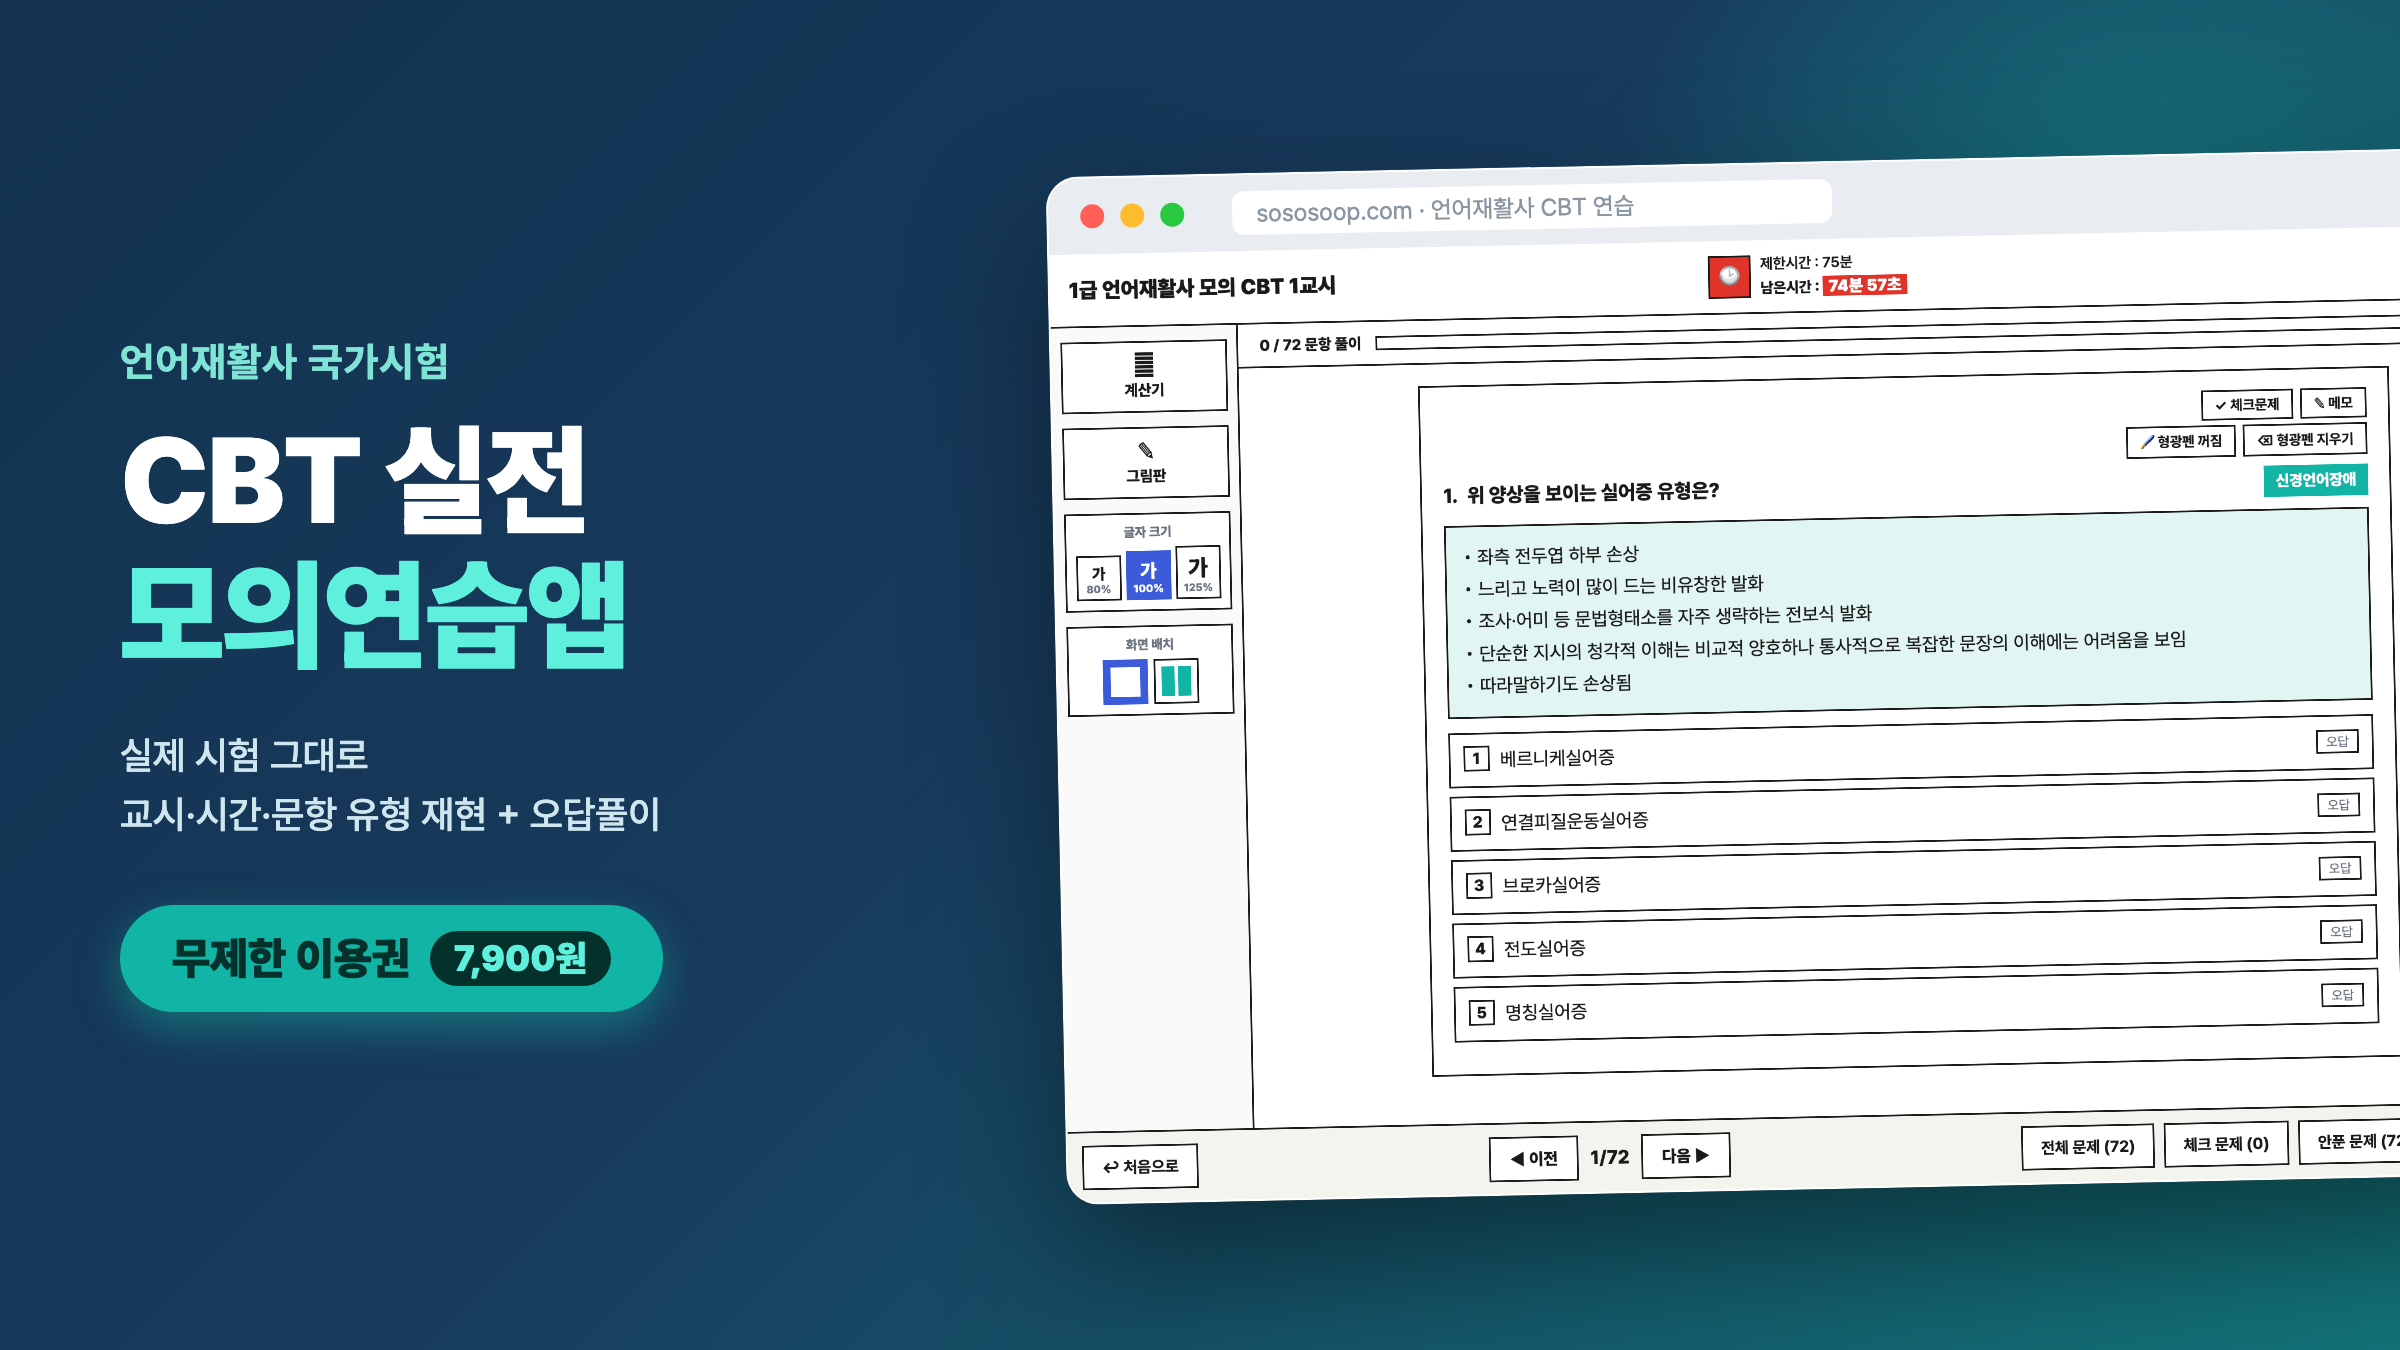
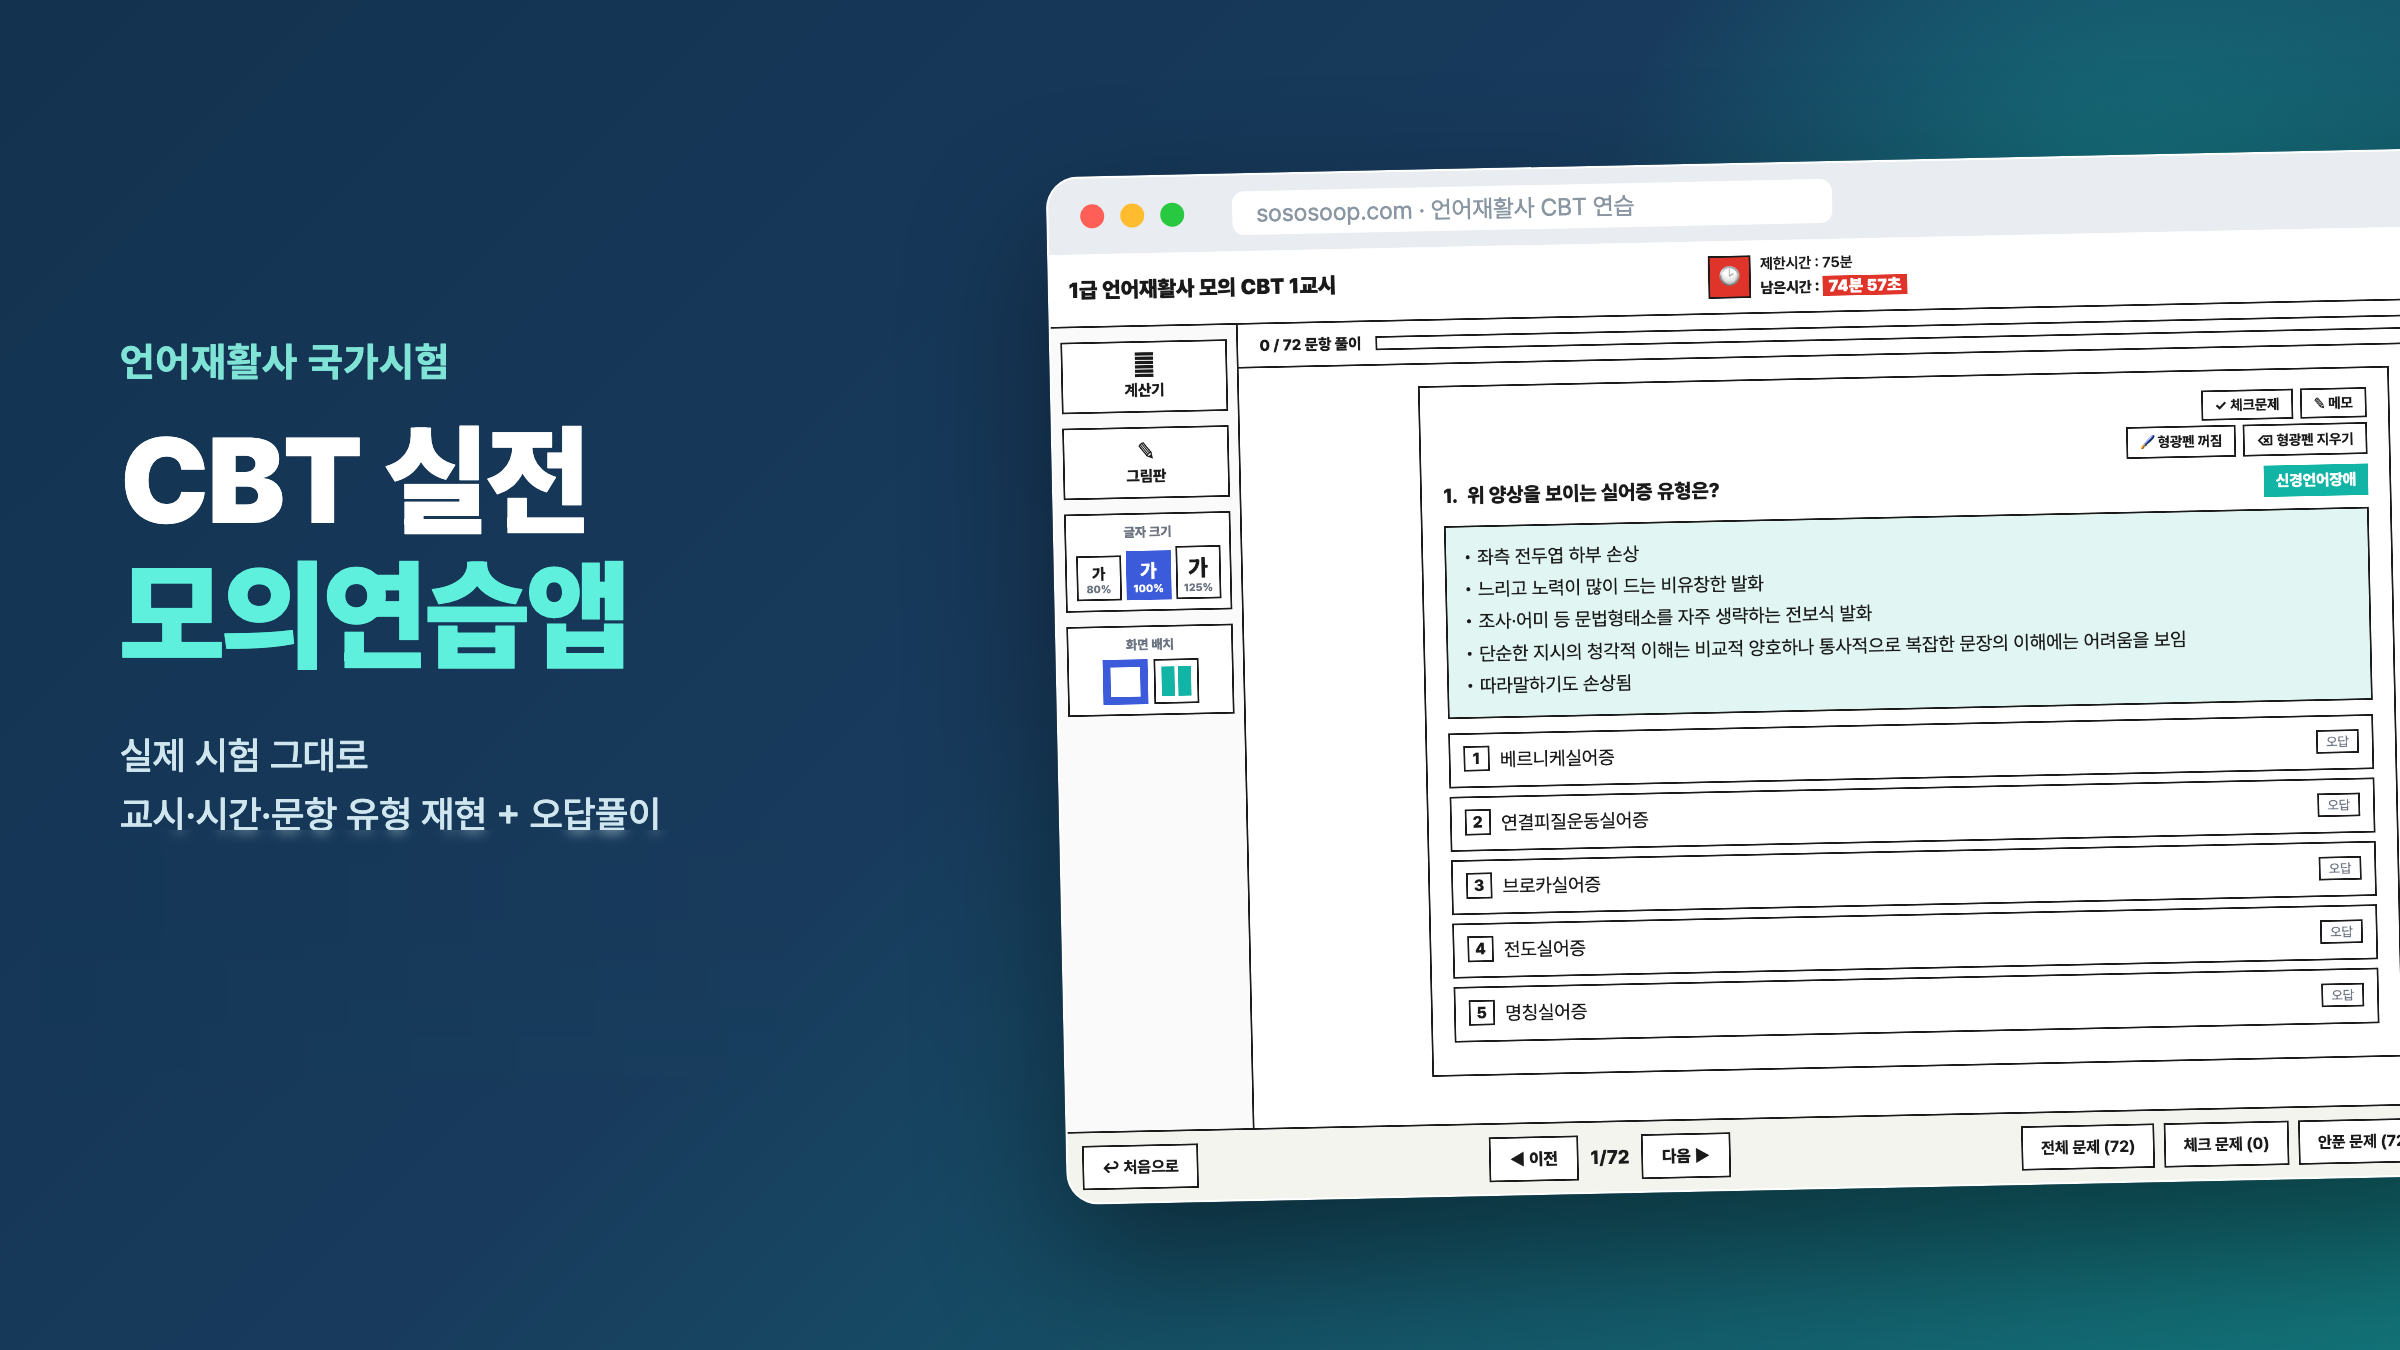
CBT 썸네일 가격 배지 제거, 폴백 자료 설명 이용기간 12개월, 강의 폴백 가격 노션과 맞춤

Changed region(s): [[0.0312, 0.6533, 0.2812, 0.7778]]

diff --git a/src/data/resources.ts b/src/data/resources.ts
@@ -128,7 +128,7 @@ export const paidResources: Resource[] = [
     id: "cbt-practice-pass",
     title: "언어재활사 CBT 연습앱 이용권",
     description:
-      "언어재활사 국가시험 CBT(컴퓨터 기반 시험) 형식을 그대로 재현한 온라인 실전 연습 프로그램 이용권입니다. 실제 시험과 동일한 교시 구성·제한시간·문항 유형으로 연습하고, 문제마다 상세한 오답풀이·해설을 제공합니다. 한 번 구매하면 기간 제한 없이 계속 이용할 수 있으며, 문항도 지속적으로 추가·업데이트됩니다. (실제 기출이 아닌 창작 연습 문항)",
+      "언어재활사 국가시험 CBT(컴퓨터 기반 시험) 형식을 그대로 재현한 온라인 실전 연습 프로그램 이용권입니다. 실제 시험과 동일한 교시 구성·제한시간·문항 유형으로 연습하고, 문제마다 상세한 오답풀이·해설을 제공합니다. 이용기간은 결제일로부터 12개월이며, 기간 중 추가·업데이트되는 문항도 그대로 이용할 수 있습니다. (실제 기출이 아닌 창작 연습 문항)",
     category: "학습",
     fileType: "웹앱",
     type: "paid",
@@ -145,7 +145,7 @@ export const paidResources: Resource[] = [
     id: "hangul-play-pass",
     title: "한글놀이 이용권",
     description:
-      "난독·읽기부진 아동을 위한 한글 블렌딩 학습 도구 이용권입니다. 아동이 배운 초성·중성·종성만 켜두면 블렌딩 보드·읽기 게임·학습자료 만들기가 모두 그 범위 안에서 돌아갑니다. 아동별 프로필로 진도를 따로 관리하고, 의미 단어·무의미 단어·문장을 자동 생성해 바로 인쇄하거나 글씨연습장으로 이어서 만들 수 있어요. 한 번 구매하면 기간 제한 없이 계속 이용할 수 있으며, 기능도 지속적으로 추가·업데이트됩니다.",
+      "난독·읽기부진 아동을 위한 한글 블렌딩 학습 도구 이용권입니다. 아동이 배운 초성·중성·종성만 켜두면 블렌딩 보드·읽기 게임·학습자료 만들기가 모두 그 범위 안에서 돌아갑니다. 아동별 프로필로 진도를 따로 관리하고, 의미 단어·무의미 단어·문장을 자동 생성해 바로 인쇄하거나 글씨연습장으로 이어서 만들 수 있어요. 이용기간은 결제일로부터 12개월이며, 기간 중 추가·업데이트되는 기능도 그대로 이용할 수 있습니다.",
     category: "학습",
     fileType: "웹앱",
     type: "paid",

diff --git a/src/data/lectures.ts b/src/data/lectures.ts
@@ -20,7 +20,7 @@ export const lectures: Lecture[] = [
     title: "AI로 나만의 책 출판하기",
     description:
       "AI를 활용해 전자책과 종이책을 직접 출판하는 전 과정을 담았습니다. 기획부터 원고 작성, 디자인, 유통까지 한 번에.",
-    price: 200000,
+    price: 300000,
     duration: "5시간",
     category: "출판",
     image: "/images/lecture-book-publishing.png",
@@ -52,7 +52,7 @@ export const lectures: Lecture[] = [
     title: "평가보고서 작성 효율화 with AI",
     description:
       "AI로 평가보고서 초안을 빠르게 잡고, 전문성 있게 다듬는 실전 강의. KOLRA, P-FA 등 주요 검사 보고서 예시 포함.",
-    price: 39000,
+    price: 55000,
     duration: "2시간",
     category: "보고서 작성",
     image: "/images/lecture-report-writing2.png",
